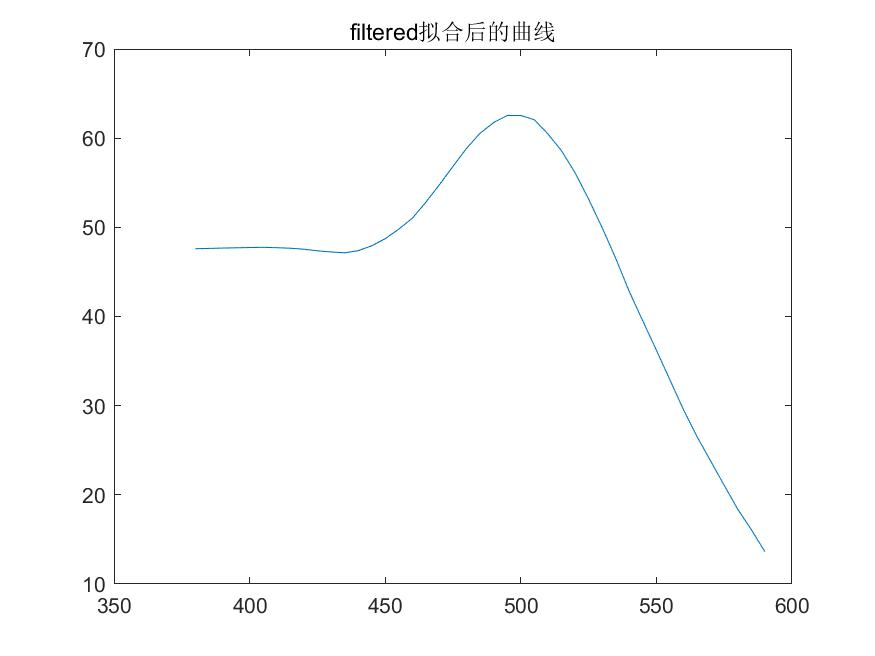
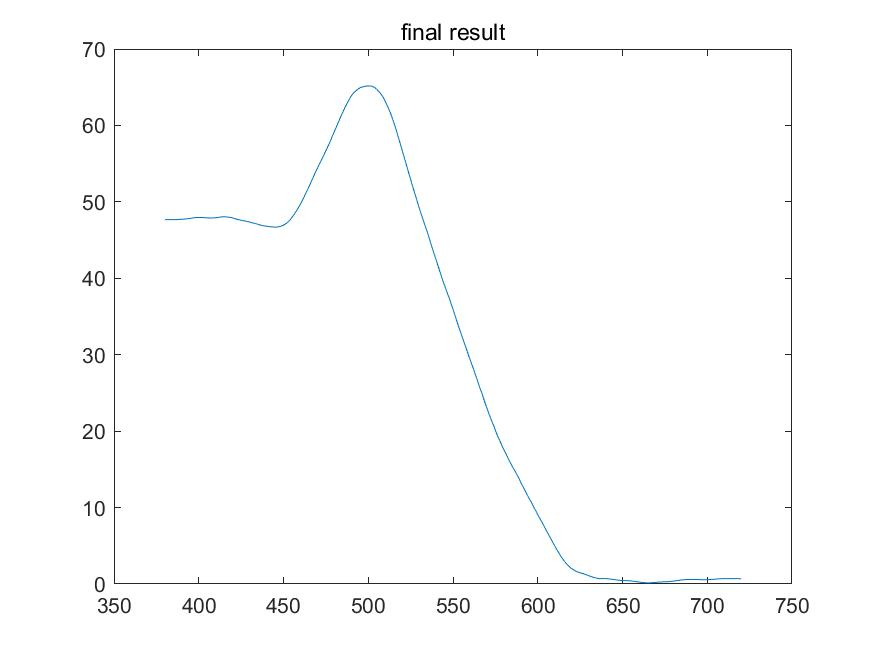
add linemover 'imclose'

diff --git a/imgPlot2digital.m b/imgPlot2digital.m
@@ -1,4 +1,6 @@
-function [dig_x, dig_y, viz] = imgPlot2digital(imgpath, xwant)
+function [dig_x, dig_y, viz] = imgPlot2digital(imgpath, xwant, linemover)
+    % xwant:        the range of x-axis that u want, a list 
+    % linemover:    'scan', 'imclose'
     % 提取图片中的曲线数据
     clc;close all
     %% parameters setting
@@ -7,42 +9,49 @@ function [dig_x, dig_y, viz] = imgPlot2digital(imgpath, xwant)
     max_x=740;%max of x axis
     min_y=0;%min of y axis
     max_y=100;%max of y axis
-    
+
     step_x = 40;% step of x axis
     step_y = 10;% step of y axis
 
-    thresh_binary = 0.03;
+    thresh_binary = 0.2;
     
     windowSize = 9; %smooth filter size
-%     xwant = [min_x + 20 : max_x - 20]; % the range of x-axis that u want
+    imclose_size = 5; % used when `linemover` == 'imclose', 
+    % it's the structuring element size of image close
+    % make sure the size of it is bigger than the gap between the non-line
+    % area, and smaller than one between the line area.
+
     
     %% 图片与曲线间的定标
     im=imread(imgpath);%读入图片(替换成需要提取曲线的图片)
     im=rgb2gray(im);%灰度变化
     thresh = graythresh(im);%二值化阈值
     im=im2bw(im,thresh_binary);%二值化
+    [click_y,click_x]=find(im==0);%找出图形中的"黑点"的坐标。该坐标是一维数据。
+    click_y=max(click_y)-click_y;%将屏幕坐标转换为右手系笛卡尔坐标
+    click_y=fliplr(click_y);%fliplr()——左右翻转数组
     
     % filter lines
-    im=reduceLines(im);
+    im=reduceLines(im,linemover);
     
-    set(0,'defaultfigurecolor','w')
-    imshow(im)%显示图片
+    set(0,'defaultfigurecolor','w');
+    figure(156);imshow(im);title('imclosed im');%显示图片
     [y,x]=find(im==0);%找出图形中的“黑点”的坐标。该坐标是一维数据。
     y=max(y)-y;%将屏幕坐标转换为右手系笛卡尔坐标
     y=fliplr(y);%fliplr()——左右翻转数组
-    plot(x,y,'r.','Markersize', 2);
+    plot(click_x,click_y,'r.','Markersize', 2);
     disp('click to mark 2 points (left-up, right-bottom) in the figure to location the axis');
     [Xx,Yy]=ginput(2);%Xx,Yy——指实际坐标框的两个顶点
     x=(x-Xx(1))*(max_x-min_x)/(Xx(2)-Xx(1))+min_x;
     y=(y-Yy(1))*(min_y-max_y)/(Yy(2)-Yy(1))+max_y;
     oldx = x;oldy = y;
     % reduce xy
-    [x,y]=reduce_xy(x, y);
+    [x,y]=reduce_xy(x, y,linemover);
     [x,y]= de_noiser(x,y);
     
-    plot(x,y,'r.','Markersize', 2);
+    figure;plot(x,y,'r.','Markersize', 2);
     axis([min_x,max_x,min_y,max_y])%根据输入设置坐标范围
-    title('由原图片得到的未处理散点图')
+    title('simple pre-processed line scatter')
     
     %% 将散点转换为可用的曲线
     %需处理的问题与解决思路
@@ -52,7 +61,7 @@ function [dig_x, dig_y, viz] = imgPlot2digital(imgpath, xwant)
     
     %参数预设
     rate_x=0.01;%曲线的最前端和最后段删除比例
-    rate_y=0.01;%曲线的最顶端和最底段删除比例
+    rate_y=0.00;%曲线的最顶端和最底段删除比例
     
     [x_uni,index_x_uni]=unique(x);%找出有多少个不同的x坐标
     
@@ -102,44 +111,54 @@ function [dig_x, dig_y, viz] = imgPlot2digital(imgpath, xwant)
     b = (1/windowSize)*ones(1,windowSize);
     ywant = imfilter(y3,b,'replicate');
     viz = figure(189);
-    plot(xwant,ywant),title('filtered拟合后的曲线')
+    plot(xwant,ywant),title('final result')
 
     dig_x = xwant; dig_y = ywant;
 end
 
 
-function im=reduceLines(im)
-    % filter lines
-    zerosf = [0 0 0 0 0 0 0 0];
-    onesf = [1 1 1 1 1 1 1 1];
-    hv= [onesf;zerosf;-onesf];
-    dx=imfilter(im,hv,'replicate');      %求横边缘fspecial('sobel')
-    hh=hv';
-    dy=imfilter(im,hh,'replicate');      %求竖边缘
-    im=im - dx - dy;   
+function im=reduceLines(im,linemover)
+    if strcmp(linemover, 'scan')
+        % filter lines
+        zerosf = [0 0 0 0 0 0 0 0];
+        onesf = [1 1 1 1 1 1 1 1];
+        hv= [onesf;zerosf;-onesf];
+        dx=imfilter(im,hv,'replicate');      %求横边缘fspecial('sobel')
+        hh=hv';
+        dy=imfilter(im,hh,'replicate');      %求竖边缘
+        im=im + dx + dy;   
+    elseif strcmp(linemover, 'imclose')
+        se=strel('square',5);     %采用半径为4的矩形作为结构元素
+        im=imclose(im,se);         %闭操作
+    end
 end
 
-function [x,y]=reduce_xy(x, y)
+function [x,y]=reduce_xy(x, y,linemover)
     global min_x max_x min_y max_y step_x step_y
     
     mxs = [min_x:step_x:max_x];
     idxs = ((mxs(1)-5) > x) | (x > (mxs(end)+5));
     x(idxs) = [];
     y(idxs) = [];
-    for mx=mxs
-        idxs = ((mx-5) < x) & (x < (mx+5));
-        x(idxs) = [];
-        y(idxs) = [];
+
+    if strcmp(linemover, 'scan')
+        for mx=mxs
+            idxs = ((mx-5) < x) & (x < (mx+5));
+            x(idxs) = [];
+            y(idxs) = [];
+        end
     end
 
     mys = [min_y:step_y:max_y];
     idxs = ((mys(1)-1.3) > y) | (y > (mys(end)+1.3));
     x(idxs) = [];
     y(idxs) = [];
-    for my=mys
-        idxs = ((my-1.3) < y) & (y < (my+1.3));
-        x(idxs) = [];
-        y(idxs) = [];
+    if strcmp(linemover, 'scan')
+        for my=mys
+            idxs = ((my-1.3) < y) & (y < (my+1.3));
+            x(idxs) = [];
+            y(idxs) = [];
+        end
     end
 end
 
@@ -148,25 +167,25 @@ function [x,y]= de_noiser_per(x,y)
     meany = mean(y);
     stdy = std(y);
 
-    idx = (y > (meany + 3*stdy) | y < (meany - 3*stdy));
+%     plot(x,y,'r.','Markersize', 2);pause
+    idx = (y > (meany + 1*stdy) | y < (meany - 1*stdy));
     x(idx) = [];
     y(idx) = [];
-
+%     plot(x,y,'r.','Markersize', 2);pause
 end
 
 
 function [nx,ny]= de_noiser(x,y)
-    step = 80;
-    morestep = 55;
+    global step_x
 
-    slices = [1:step:size(x,1)];
+    slices = [1:step_x:size(x,1)];
     nx = [];
     ny = [];
     for slc=slices
-        if slc+step + morestep > size(x,1)
+        if slc+step_x > size(x,1)
             [rx,ry] = de_noiser_per(x(slc:end), y(slc:end));
         else
-            [rx,ry] = de_noiser_per(x(slc:slc+step + morestep), y(slc:slc+step + morestep));
+            [rx,ry] = de_noiser_per(x(slc:slc+step_x), y(slc:slc+step_x));
         end
         nx = [nx ; rx];
         ny = [ny ; ry];

diff --git a/run_allimgs.m b/run_allimgs.m
@@ -9,7 +9,7 @@ end
 
 
 for imf=imgsf'
-    [x,y,viz]=imgPlot2digital([imf.folder '/' imf.name], [380:5:720]);
+    [x,y,viz]=imgPlot2digital([imf.folder '/' imf.name], [380:1:720], 'imclose');
 
     tt = split(imf.name, '.');
     imgname = tt{1};

diff --git a/README.md b/README.md
@@ -2,7 +2,7 @@
 
 ## results
 
-![1649320296932.png](image/README/IMG_3069.jpeg)
+![1649320296932.png](image/README/IMG_3073.jpeg)
 
 ![1649320612355.png](image/README/1649320612355.png)
 
@@ -14,7 +14,14 @@ the digital form of the points and the preview line graph (like above) will be s
 
 set a few parameters in the head of `imgPlot2digital.m`, also some de_noise related in function `de_noiser()`.
 
-what the program does is
+### linemover mode
+
+There're two modes of removing the grid lines. By setting the formal parameter `linemover` of the function `imgPlot2digital()`, results are shown in above. 
+
+* The `scan` mode is done by setting the `step_x` and `step_y` vars, so when the grid line is covered by the plot line, it'll remove the plot line while removing the grid line.
+* The `imclose` mode is a digital image processing skill, when the plot line is bolder than the grid line, after binarizing the image, the black pixel size in the gird line is smaller than its in the plot line, so by setting the structuring element size we can remove the small black pixels, aka the grid line.
+
+### what the program does
 
 1. convert the image to gray, then binary.
 2. read the "black" pixels and convert them from the image coordinate system to the "coordinate"(the axis in the image) coordinate system.
@@ -24,6 +31,8 @@ what the program does is
 6. do an interpret from the points we have above to obtain the points at x-axis u set.
 7. smooth filter the points above using `mean filter`.
 8. ***DONE!***
+
+### run
 
 simply run `run_allimgs.m` and wait for the magic happens.
 
